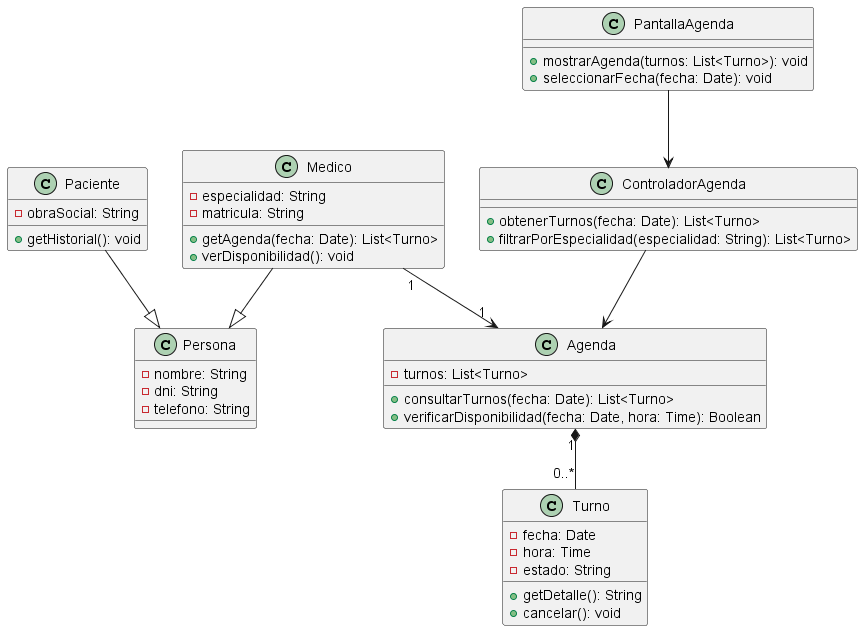
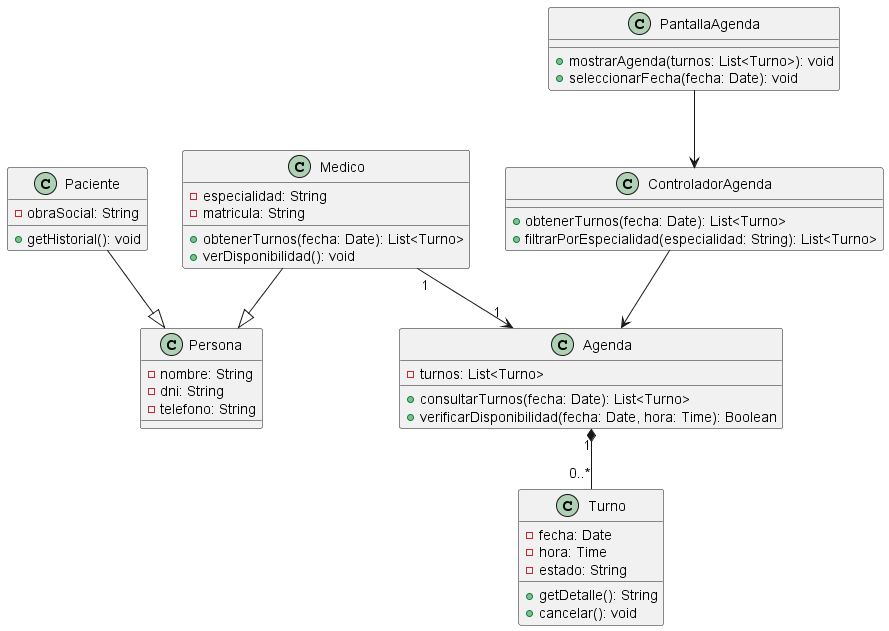
Merge pull request #175 from Purezaamor/feature/analista-cu-4-5-add-anexo-cu4-cu5
[Feature] Corrección RC14 a RC31 - Analista Funcional CU4 y CU5

Pull request: [Feature] Corrección RC14 a RC31 - Analista Funcional CU4 y CU5
## Correcciones realizadas (Analista Funcional CU4 y CU5)

### RC14 y RC28 - Tablas faltantes
- Agregadas tablas "Clases involucradas" y "Relaciones UML" en ambos anexos

### RC15 y RC29 - Pseudocódigo
- Encerrado en bloque de código con triple backtick
- Agregados comentarios explicativos en cada paso

### RC16, RC17, RC22, RC23 - Diagramas de casos de uso
- Agregada sección "Actores y relaciones" con tabla de actores y roles

### RC18, RC19, RC24, RC25 - Diagramas de actividades
- Agregada sección "Swimlanes y decisiones clave"

### RC20, RC21, RC26, RC27 - Diagramas de secuencia
- Agregada sección "Participantes y mensajes clave"

### RC30, RC31 - Índices
- Corregido formato de `analisis_casos_uso.md` y `diagramas_de_clases.md`

diff --git a/anexos/analisis-funcional/05-caso-de-uso-administrar-disponibilidad.md b/anexos/analisis-funcional/05-caso-de-uso-administrar-disponibilidad.md
@@ -11,7 +11,16 @@
 4. El sistema actualiza la agenda del médico.
 
 **Flujos alternativos:**
+<<<<<<< HEAD
+- Si el médico ya tiene turnos asignados:
+  1. El sistema muestra un mensaje indicando que existen turnos asignados en esa franja horaria.
+  2. El sistema lista los turnos afectados (paciente, fecha, hora).
+  3. El sistema ofrece dos opciones: "Cancelar turnos y eliminar disponibilidad" o "Mantener turnos y no eliminar disponibilidad".
+  4. Si el usuario confirma la cancelación, se cancelan los turnos afectados y se elimina la disponibilidad.
+  5. Si el usuario no confirma, se cancela la operación y se mantiene la disponibilidad.
+=======
 - Si el médico ya tiene turnos asignados, no se puede eliminar esa disponibilidad.
+>>>>>>> develop
 
 **Trazabilidad con RFs (A1):**
 - **RF5 (Administrar disponibilidad):** La secretaria puede configurar los horarios de atención de los médicos.